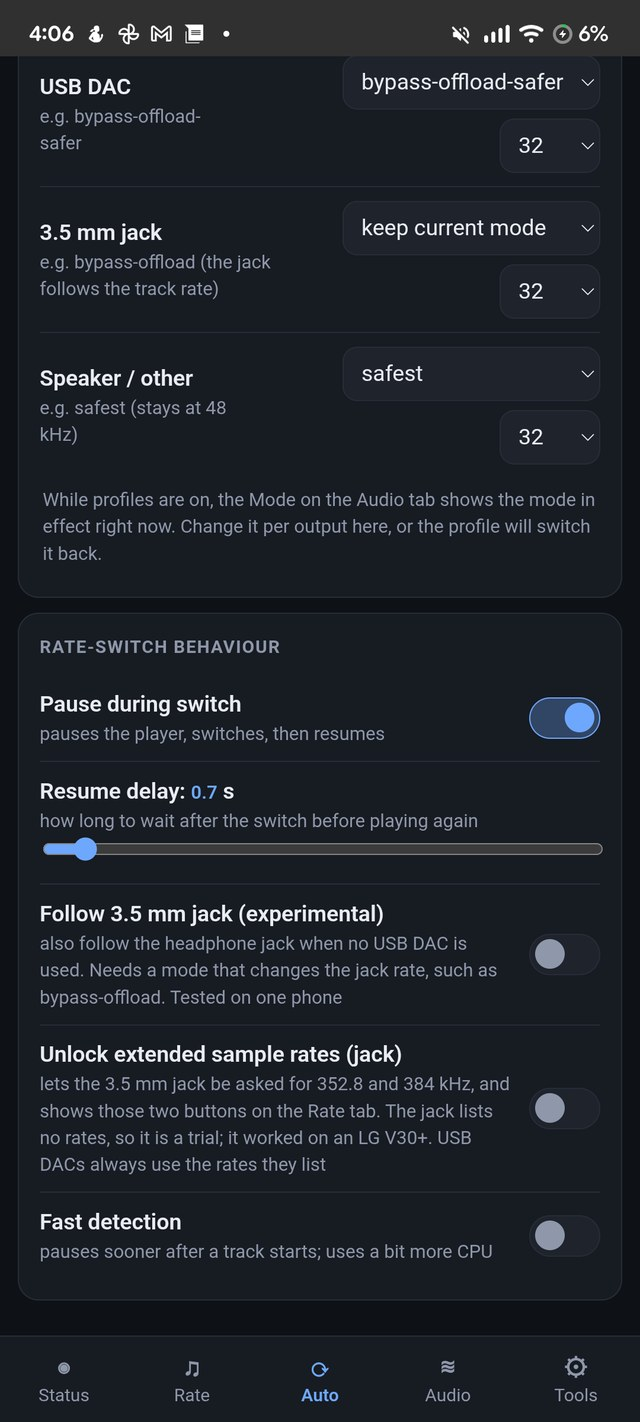
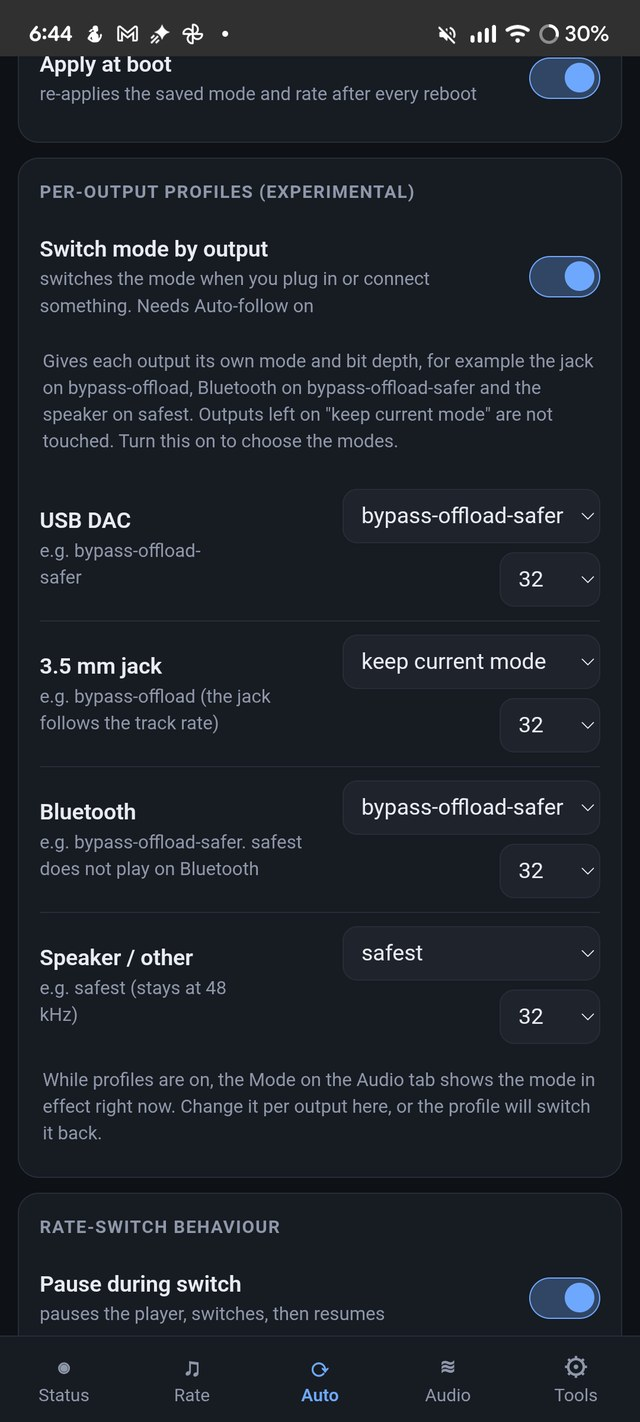
v0.7.1: Bluetooth profile, finer media volume steps, Auto tab screenshots

diff --git a/module/webroot/index.html b/module/webroot/index.html
@@ -194,11 +194,15 @@ h1{animation:sweep .8s cubic-bezier(.25,.7,.25,1) both}
     <div class="row"><div class="t"><b>Apply at boot</b><span>re-applies the saved mode and rate after every reboot</span></div><label class="sw"><input type="checkbox" data-key="boot_apply"><i></i></label></div>
   </div>
   <div class="card"><h2>Per-output profiles (experimental)</h2>
-    <div class="row"><div class="t"><b>Switch mode by output</b><span>when the output changes (USB DAC, 3.5 mm jack, speaker or other), the module switches to that output's mode. Needs Auto-follow on. Outputs left on "keep current mode" are not touched</span></div><label class="sw"><input type="checkbox" data-key="profiles"><i></i></label></div>
+    <div class="row"><div class="t"><b>Switch mode by output</b><span>switches the mode when you plug in or connect something. Needs Auto-follow on</span></div><label class="sw"><input type="checkbox" data-key="profiles"><i></i></label></div>
+    <p class="hint" style="margin:10px 2px 14px">Gives each output its own mode and bit depth, for example the jack on bypass-offload, Bluetooth on bypass-offload-safer and the speaker on safest. Outputs left on "keep current mode" are not touched. Turn this on to choose the modes.</p>
+    <div id="profRows" hidden>
     <div class="row"><div class="t"><b>USB DAC</b><span>e.g. bypass-offload-safer</span></div><div class="pair"><select data-prof="usb" aria-label="USB DAC mode"><option value="">keep current mode</option><option value="bypass-offload-safer">bypass-offload-safer</option><option value="bypass-offload">bypass-offload</option><option value="usb-only">usb-only</option><option value="offload-hifi-playback">offload-hifi-playback</option><option value="offload">offload</option><option value="offload-safer">offload-safer</option><option value="offload-direct">offload-direct</option><option value="legacy">legacy</option><option value="safe">safe</option><option value="safest">safest</option><option value="safest-auto">safest-auto</option></select><select data-profbits="usb" aria-label="USB DAC bit depth"><option value="32">32</option><option value="24">24</option><option value="16">16</option><option value="float">float</option></select></div></div>
     <div class="row"><div class="t"><b>3.5 mm jack</b><span>e.g. bypass-offload (the jack follows the track rate)</span></div><div class="pair"><select data-prof="jack" aria-label="3.5 mm jack mode"><option value="">keep current mode</option><option value="bypass-offload-safer">bypass-offload-safer</option><option value="bypass-offload">bypass-offload</option><option value="usb-only">usb-only</option><option value="offload-hifi-playback">offload-hifi-playback</option><option value="offload">offload</option><option value="offload-safer">offload-safer</option><option value="offload-direct">offload-direct</option><option value="legacy">legacy</option><option value="safe">safe</option><option value="safest">safest</option><option value="safest-auto">safest-auto</option></select><select data-profbits="jack" aria-label="3.5 mm jack bit depth"><option value="32">32</option><option value="24">24</option><option value="16">16</option><option value="float">float</option></select></div></div>
+    <div class="row"><div class="t"><b>Bluetooth</b><span>e.g. bypass-offload-safer. safest does not play on Bluetooth</span></div><div class="pair"><select data-prof="bt" aria-label="Bluetooth mode"><option value="">keep current mode</option><option value="bypass-offload-safer">bypass-offload-safer</option><option value="bypass-offload">bypass-offload</option><option value="usb-only">usb-only</option><option value="offload-hifi-playback">offload-hifi-playback</option><option value="offload">offload</option><option value="offload-safer">offload-safer</option><option value="offload-direct">offload-direct</option><option value="legacy">legacy</option><option value="safe">safe</option><option value="safest">safest</option><option value="safest-auto">safest-auto</option></select><select data-profbits="bt" aria-label="Bluetooth bit depth"><option value="32">32</option><option value="24">24</option><option value="16">16</option><option value="float">float</option></select></div></div>
     <div class="row"><div class="t"><b>Speaker / other</b><span>e.g. safest (stays at 48 kHz)</span></div><div class="pair"><select data-prof="other" aria-label="Speaker / other mode"><option value="">keep current mode</option><option value="bypass-offload-safer">bypass-offload-safer</option><option value="bypass-offload">bypass-offload</option><option value="usb-only">usb-only</option><option value="offload-hifi-playback">offload-hifi-playback</option><option value="offload">offload</option><option value="offload-safer">offload-safer</option><option value="offload-direct">offload-direct</option><option value="legacy">legacy</option><option value="safe">safe</option><option value="safest">safest</option><option value="safest-auto">safest-auto</option></select><select data-profbits="other" aria-label="Speaker / other bit depth"><option value="32">32</option><option value="24">24</option><option value="16">16</option><option value="float">float</option></select></div></div>
     <p class="hint">While profiles are on, the Mode on the Audio tab shows the mode in effect right now. Change it per output here, or the profile will switch it back.</p>
+    </div>
   </div>
   <div class="card"><h2>Rate-switch behaviour</h2>
     <div class="row"><div class="t"><b>Pause during switch</b><span>pauses the player, switches, then resumes</span></div><label class="sw"><input type="checkbox" data-key="pause"><i></i></label></div>
@@ -229,6 +233,11 @@ h1{animation:sweep .8s cubic-bezier(.25,.7,.25,1) both}
       </select></div>
     <div class="row"><div class="t"><b>Bit depth</b><span>32-bit is the default</span></div>
       <select id="bits"><option>16</option><option>24</option><option>32</option><option value="float">float</option></select></div>
+  </div>
+  <div class="card"><h2>Volume steps (experimental)</h2>
+    <div class="row"><div class="t"><b>Finer volume steps</b><span>Android has 15 media volume steps on most phones. Off changes nothing (default). Takes effect after a reboot. Some ROMs ignore it</span></div>
+      <select id="volsteps"><option value="off">Off (default)</option><option value="30">30 steps</option><option value="50">50 steps</option><option value="75">75 steps</option><option value="100">100 steps</option><option value="150">150 steps</option></select></div>
+    <p class="hint" id="volNote" hidden></p>
   </div>
   <div class="card"><h2>Sound</h2>
     <div class="row"><div class="t"><b>DRC (compression)</b><span>louder and punchier, but not bit-perfect. Off is the default</span></div><label class="sw"><input type="checkbox" data-key="drc"><i></i></label></div>
@@ -334,10 +343,10 @@ const $$ = (s, r) => Array.from((r || document).querySelectorAll(s));
 
 /* ---- command bridge: KernelSU/APatch WebUI API, or a simulated one for previews ---- */
 let demo = !(window.ksu && typeof window.ksu.exec === "function");
-const mock = { rate: 96000, bits: "32", mode: "bypass-offload-safer", boot_apply: 1, auto: 0, drc: 0, pause: 1, fast: 0, jack: 0, extended: 0, unlocker: 0, lockseen: 1, profiles: 0, prof_usb: "", prof_jack: "", prof_other: "", pause_delay: "1.5" };
+const mock = { rate: 96000, bits: "32", mode: "bypass-offload-safer", boot_apply: 1, auto: 0, drc: 0, pause: 1, fast: 0, volsteps: "", volsteps_live: "", jack: 0, extended: 0, unlocker: 0, lockseen: 1, profiles: 0, prof_usb: "", prof_jack: "", prof_bt: "", prof_other: "", pause_delay: "1.5" };
 function mockExec(cmd) {
-  if (/module\.prop/.test(cmd)) return "version=v0.7.0 (preview)";
-  const pm = cmd.match(/bprate profile (usb|jack|other) (\S+)(?: (\S+))?/);
+  if (/module\.prop/.test(cmd)) return "version=v0.7.1 (preview)";
+  const pm = cmd.match(/bprate profile (usb|jack|bt|other) (\S+)(?: (\S+))?/);
   if (pm) { mock["prof_" + pm[1]] = pm[2] === "clear" ? "" : pm[2] + ":" + (pm[3] || mock.bits); return "Profile '" + pm[1] + "' = " + mock["prof_" + pm[1]]; }
   const m = cmd.match(/bprate (\S+)(?: (\S+))?/);
   if (/bprate state/.test(cmd)) return Object.entries(mock).map(([k, v]) => k + "=" + v).join("\n");
@@ -351,6 +360,7 @@ function mockExec(cmd) {
       if (a === "pause" && /^[\d.]+$/.test(b)) { mock.pause_delay = b; mock.pause = 1; } else mock[key] = b === "on" ? 1 : 0;
       return a + " " + b;
     }
+    if (a === "volsteps") { mock.volsteps = b === "off" ? "" : b; return b === "off" ? "Volume steps OFF (default)." : "Volume steps set to " + b + ". Reboot to apply."; }
     if (a === "mode") { mock.mode = b; return "Mode set to --" + b; }
     if (a === "bits") { mock.bits = b; return "Bit depth set to " + b; }
     if (a === "reset") { mock.auto = 0; mock.boot_apply = 0; return "Policy overlay removed."; }
@@ -387,7 +397,13 @@ function paint() {
   $$("[data-key]").forEach(el => { el.checked = S[el.dataset.key] === "1"; });
   $("#mode").value = S.mode || "bypass-offload-safer";
   $("#bits").value = S.bits || "32";
-  ["usb", "jack", "other"].forEach(o => {
+  const vs = S.volsteps || "", live = S.volsteps_live || "";
+  if (![...$("#volsteps").options].some(o => o.value === vs)) { const o = document.createElement("option"); o.value = vs; o.textContent = vs + " steps"; $("#volsteps").appendChild(o); }
+  $("#volsteps").value = vs || "off";
+  const vn = $("#volNote"), pending = (vs || "") !== (live === "15" ? "" : live);
+  vn.hidden = !pending; vn.textContent = pending ? "Saved: " + (vs ? vs + " steps" : "off") + ". In use now: " + (live || "Android default") + ". Reboot to apply." : "";
+  $("#profRows").hidden = S.profiles !== "1";
+  ["usb", "jack", "bt", "other"].forEach(o => {
     const p = S["prof_" + o] || "", i = p.indexOf(":");
     $("[data-prof=" + o + "]").value = i > 0 ? p.slice(0, i) : "";
     $("[data-profbits=" + o + "]").value = i > 0 ? p.slice(i + 1) : (S.bits || "32");
@@ -400,7 +416,7 @@ function paint() {
     "\nAuto-follow: " + (S.auto === "1" ? "on" : "off") + " | Boot: " + (S.boot_apply === "1" ? "on" : "off") +
     "\nPause: " + (S.pause === "1" ? "on, " + S.pause_delay + " s" : "off") + " | Fast: " + (S.fast === "1" ? "on" : "off") +
     "\nDRC: " + (S.drc === "1" ? "on" : "off") +
-    "\nProfiles: " + (S.profiles === "1" ? "on" : "off") + (S.profiles === "1" ? " (usb " + (S.prof_usb || "-") + ", jack " + (S.prof_jack || "-") + ", other " + (S.prof_other || "-") + ")" : "");
+    "\nProfiles: " + (S.profiles === "1" ? "on" : "off") + (S.profiles === "1" ? " (usb " + (S.prof_usb || "-") + ", jack " + (S.prof_jack || "-") + ", bluetooth " + (S.prof_bt || "-") + ", other " + (S.prof_other || "-") + ")" : "");
 }
 async function loadState() {
   const txt = await bprate("state", true);
@@ -460,6 +476,7 @@ async function setProfile(o) {
 }
 $$("[data-prof]").forEach(el => el.addEventListener("change", () => setProfile(el.dataset.prof)));
 $$("[data-profbits]").forEach(el => el.addEventListener("change", () => { if ($("[data-prof=" + el.dataset.profbits + "]").value) setProfile(el.dataset.profbits); }));
+$("#volsteps").addEventListener("change", async e => { const out = await bprate("volsteps " + e.target.value); toast(out.split("\n")[0]); loadState(); });
 $("#mode").addEventListener("change", async e => { toast("Changing mode…"); const out = await bprate("mode " + e.target.value); toast(out.split("\n")[0]); loadState(); });
 $("#bits").addEventListener("change", async e => { toast("Changing bit depth…"); const out = await bprate("bits " + e.target.value); toast(out.split("\n")[0]); loadState(); });
 

diff --git a/README.md b/README.md
@@ -3,7 +3,7 @@
 **Your music. Your DAC. No unnecessary resampling.**
 
 ![status: beta](https://img.shields.io/badge/status-beta-orange)
-![version: 0.7.0](https://img.shields.io/badge/version-0.7.0-blue)
+![version: 0.7.1](https://img.shields.io/badge/version-0.7.1-blue)
 ![license: AGPL-3.0](https://img.shields.io/badge/license-AGPL--3.0-blue)
 
 **Download:** go to the [Releases page](../../releases), open the newest version at the top, and download the `.zip` under **Assets**. Then follow the [Quick start](#quick-start).
@@ -46,7 +46,7 @@ Rooted phones or tablets with an **external USB DAC** where the music app's outp
 <table>
 <tr><td align="center"><a href="docs/screenshots/01.jpg"><img src="docs/screenshots/01.jpg" width="200" alt="First run: Auto-follow nudge"></a><br><sub>First run: Auto-follow nudge</sub></td><td align="center"><a href="docs/screenshots/02.jpg"><img src="docs/screenshots/02.jpg" width="200" alt="No USB output"></a><br><sub>No USB output</sub></td><td align="center"><a href="docs/screenshots/03.jpg"><img src="docs/screenshots/03.jpg" width="200" alt="Apple Music, 96 kHz track"></a><br><sub>Apple Music, 96 kHz track</sub></td><td align="center"><a href="docs/screenshots/04.jpg"><img src="docs/screenshots/04.jpg" width="200" alt="Status, 96 kHz rate-matched"></a><br><sub>Status, 96 kHz rate-matched</sub></td></tr>
 <tr><td align="center"><a href="docs/screenshots/05.jpg"><img src="docs/screenshots/05.jpg" width="200" alt="Apple Music, 44.1 kHz track"></a><br><sub>Apple Music, 44.1 kHz track</sub></td><td align="center"><a href="docs/screenshots/06.jpg"><img src="docs/screenshots/06.jpg" width="200" alt="Status, 44.1 kHz rate-matched"></a><br><sub>Status, 44.1 kHz rate-matched</sub></td><td align="center"><a href="docs/screenshots/07.jpg"><img src="docs/screenshots/07.jpg" width="200" alt="Apple Music, 192 kHz track"></a><br><sub>Apple Music, 192 kHz track</sub></td><td align="center"><a href="docs/screenshots/08.jpg"><img src="docs/screenshots/08.jpg" width="200" alt="Status, 192 kHz rate-matched"></a><br><sub>Status, 192 kHz rate-matched</sub></td></tr>
-<tr><td align="center"><a href="docs/screenshots/09.jpg"><img src="docs/screenshots/09.jpg" width="200" alt="Rate tab"></a><br><sub>Rate tab</sub></td><td align="center"><a href="docs/screenshots/10.jpg"><img src="docs/screenshots/10.jpg" width="200" alt="Auto tab: automation and per-output profiles"></a><br><sub>Auto tab: profiles</sub></td><td align="center"><a href="docs/screenshots/10-2.jpg"><img src="docs/screenshots/10-2.jpg" width="200" alt="Auto tab: rate-switch behaviour, jack and extended rates"></a><br><sub>Auto tab: jack and extended rates</sub></td><td align="center"><a href="docs/screenshots/11.jpg"><img src="docs/screenshots/11.jpg" width="200" alt="Audio tab"></a><br><sub>Audio tab</sub></td></tr>
+<tr><td align="center"><a href="docs/screenshots/09.jpg"><img src="docs/screenshots/09.jpg" width="200" alt="Rate tab"></a><br><sub>Rate tab</sub></td><td align="center"><a href="docs/screenshots/10.jpg"><img src="docs/screenshots/10.jpg" width="200" alt="Auto tab, per-output profiles off"></a><br><sub>Auto tab: profiles off</sub></td><td align="center"><a href="docs/screenshots/10-2.jpg"><img src="docs/screenshots/10-2.jpg" width="200" alt="Auto tab, per-output profiles on"></a><br><sub>Auto tab: profiles on</sub></td><td align="center"><a href="docs/screenshots/11.jpg"><img src="docs/screenshots/11.jpg" width="200" alt="Audio tab"></a><br><sub>Audio tab</sub></td></tr>
 <tr><td align="center"><a href="docs/screenshots/12.jpg"><img src="docs/screenshots/12.jpg" width="200" alt="Audio: which mode should I pick"></a><br><sub>Audio: which mode should I pick</sub></td><td align="center"><a href="docs/screenshots/13.jpg"><img src="docs/screenshots/13.jpg" width="200" alt="Audio: mode list"></a><br><sub>Audio: mode list</sub></td><td align="center"><a href="docs/screenshots/14.jpg"><img src="docs/screenshots/14.jpg" width="200" alt="Audio: bit depth list"></a><br><sub>Audio: bit depth list</sub></td><td align="center"><a href="docs/screenshots/15.jpg"><img src="docs/screenshots/15.jpg" width="200" alt="Tools, Night theme"></a><br><sub>Tools, Night theme</sub></td></tr>
 <tr><td align="center"><a href="docs/screenshots/16.jpg"><img src="docs/screenshots/16.jpg" width="200" alt="Tools: diagnostics and report"></a><br><sub>Tools: diagnostics and report</sub></td><td align="center"><a href="docs/screenshots/17.jpg"><img src="docs/screenshots/17.jpg" width="200" alt="Day theme"></a><br><sub>Day theme</sub></td><td align="center"><a href="docs/screenshots/18.jpg"><img src="docs/screenshots/18.jpg" width="200" alt="Retro paper theme"></a><br><sub>Retro paper theme</sub></td><td align="center"><a href="docs/screenshots/19.jpg"><img src="docs/screenshots/19.jpg" width="200" alt="Retro night theme"></a><br><sub>Retro night theme</sub></td></tr>
 <tr><td align="center"><a href="docs/screenshots/20.jpg"><img src="docs/screenshots/20.jpg" width="200" alt="Wavelet equalizer on"></a><br><sub>Wavelet equalizer on</sub></td><td align="center"><a href="docs/screenshots/21.jpg"><img src="docs/screenshots/21.jpg" width="200" alt="Status with sound effects on"></a><br><sub>Status with sound effects on</sub></td><td align="center"><a href="docs/screenshots/22.jpg"><img src="docs/screenshots/22.jpg" width="200" alt="Wavelet idle, nothing applied"></a><br><sub>Wavelet idle, nothing applied</sub></td><td align="center"><a href="docs/screenshots/23.jpg"><img src="docs/screenshots/23.jpg" width="200" alt="Status, 192 kHz clean"></a><br><sub>Status, 192 kHz clean</sub></td></tr>
@@ -167,9 +167,10 @@ Off by default. With **Per-output profiles** on (Auto tab, or `bprate profiles o
 |---|---|
 | USB DAC | a USB audio card is present |
 | 3.5 mm jack | a wired headset or headphone is listed as an available output device |
-| Speaker / other | neither of the above |
+| Bluetooth headphones | an A2DP, LE Audio or hearing-aid device is listed as an available output device. Wins over the jack. **`safest` does not play on Bluetooth** (Moto Edge 30 Fusion, LG V30+), so give Bluetooth its own mode, e.g. `bypass-offload-safer` |
+| Speaker / other | none of the above |
 
-Nothing is preset. An output left on "keep current mode" is not touched. Set them in the WebUI or with `bprate profile usb|jack|other <mode> [bits]`, for example `bprate profile jack bypass-offload` and `bprate profile other safest`. `bprate profile` lists them, `bprate profile jack clear` removes one.
+Nothing is preset. An output left on "keep current mode" is not touched. Set them in the WebUI or with `bprate profile usb|jack|bt|other <mode> [bits]`, for example `bprate profile jack bypass-offload`, `bprate profile bt bypass-offload-safer` and `bprate profile other safest`. `bprate profile` lists them, `bprate profile jack clear` removes one.
 
 - The output has to stay the same for two checks (about 3 seconds) before anything switches, and an unreadable dump counts as "no change", so an audio server restart does not look like an unplug.
 - A switch restarts the audio server, the same as a rate switch. If music is playing it is paused first and resumed afterwards (the same pause setting as rate switches).
@@ -177,6 +178,15 @@ Nothing is preset. An output left on "keep current mode" is not touched. Set the
 - While profiles are on, the mode shown on the Audio tab is the one in effect right now. Change it per output, or the profile switches it back.
 - A jack profile also makes the follower follow the jack. The jack still needs a mode that changes its rate (see above).
 - Tested on an LG V30+ (LineageOS 22.2): jack profile `bypass-offload`, speaker/other profile `safest`. Plugging in headphones switched to the jack profile in about 5 seconds and unplugging switched back, and the speaker played normally afterwards. The USB DAC profile has not been tried on a phone yet.
+
+## Volume steps (experimental)
+
+Android has 15 media volume steps on most phones, which is coarse on headphones. **Finer volume steps** (Audio tab, or `bprate volsteps <16-150>`) raises the number, up to 150, by setting `ro.config.media_vol_steps` at boot. It is meant to make life easier: Bluetooth headphones, or a USB DAC without a volume control of its own, can only be turned down with the phone's volume, so finer steps help. **Off is the default and changes nothing.**
+
+- It takes effect after a reboot. `bprate volsteps off` and a reboot go back to Android's own number.
+- It is a standard Android property, but some ROMs ignore it. It worked on the Moto Edge 30 Fusion (LineageOS 24) with 75 and 150 steps. Other phones are untested; Samsung One UI has its own volume step setting in Good Lock.
+- `bpstatus` and the Status tab show the media volume as a number, for example `Media volume: 45 / 100`. The module cannot add a number to Android's own volume panel; that is part of the system UI.
+- It does not touch the sample rate, the mode or anything else the module does.
 
 ## Known limitations
 

diff --git a/docs/COMPATIBILITY.md b/docs/COMPATIBILITY.md
@@ -53,11 +53,11 @@ The jack can follow a rate in modes that change the internal outputs. Tested by 
 - The 32-bit mixer reaches the hardware as 24-bit. Whether the DAC chip processes the signal further is not known.
 - On Qualcomm phones the speaker and the jack usually share one playback stream, so the stream alone does not prove which one is playing; the active output thread does.
 - Automatic following: the follow log showed switches to 44.1, 48 and 192 kHz as tracks changed. Headphones without a microphone are listed as `WIRED_HEADPHONE`, a headset with one as `WIRED_HEADSET`; both are detected.
-- Above 192 kHz: VLC played a 384 kHz file at 192 kHz. With Poweramp set to 352.8 kHz the follower picked 176.4 kHz (it halves rates above 192 kHz once). Not checked whether 176.4 kHz reached the hardware. Rates above 192 kHz are not a goal of the jack follower.
+- Above 192 kHz: with "Unlock extended sample rates (jack)" off, the follower halves rates above 192 kHz once (Poweramp at 352.8 kHz gave 176.4 kHz). With it on, 352.8 and 384 kHz were followed on the V30+ (Poweramp goes up to 384 kHz).
 - Not tested yet: other phones and other modes.
 
 ## Per-output profiles (experimental)
-Output detection (`out_kind`) reads `dumpsys media.audio_policy`: a wired headset or headphone in the "Available output devices" list means jack, a USB audio card in `/proc/asound` means USB DAC, otherwise other. Tests use the V30+'s plugged dump and the same dump without the headset entry. On the LG V30+ (jack = `bypass-offload`, other = `safest`) plugging in headphones switched to the jack profile and unplugging switched back, each in about 5 seconds including a 2.5 s audio server restart, and the speaker worked afterwards. The USB DAC profile is not tried on a phone yet.
+Output detection (`out_kind`) reads `dumpsys media.audio_policy`: a wired headset or headphone in the "Available output devices" list means jack, a USB audio card in `/proc/asound` means USB DAC, a Bluetooth media device (`BLUETOOTH_A2DP`, `BLE_*` or `HEARING_AID`) means Bluetooth (its own profile, and it wins over the jack), otherwise other. A phone-call-only `BLUETOOTH_SCO` entry alone does not count. On the Moto Edge 30 Fusion the AirPods showed up as `AUDIO_DEVICE_OUT_BLUETOOTH_A2DP` (plus `BLUETOOTH_SCO`). Tests use the V30+'s plugged dump and the same dump without the headset entry. On the LG V30+ (jack = `bypass-offload`, other = `safest`) plugging in headphones switched to the jack profile and unplugging switched back, each in about 5 seconds including a 2.5 s audio server restart, and the speaker worked afterwards. The USB DAC profile is not tried on a phone yet.
 
 ## Legend
 - **Confirmed rate-matched:** `bpstatus` showed `rate-matched`, `gain 0 dB`, no enabled effects while playing.

diff --git a/CHANGELOG.md b/CHANGELOG.md
@@ -2,6 +2,19 @@
 
 Versions are module versions (`module/module.prop`). Nothing here is a validated release.
 
+## 0.7.1
+
+### Fixed
+- **Bluetooth headphones and per-output profiles**: a Bluetooth headset used to count as "Speaker / other", so with the speaker profile on `safest` (which does not play on Bluetooth) connecting headphones left the sound on the speaker or jack. Bluetooth (A2DP, LE Audio, hearing aid) is now detected on its own and gets its own profile (`bprate profile bt <mode>`, Bluetooth row on the Auto tab; left on "keep current mode" it is not touched). It wins over the jack, and the follower does nothing on it. The Status tab warns when `safest` is in effect on Bluetooth. Seen on a Moto Edge 30 Fusion, an LG V30+ and a Samsung (all list the AirPods as `BLUETOOTH_A2DP`); `safest` stayed silent on the Moto and the LG, `bypass-offload` and `bypass-offload-safer` played.
+
+### New
+- Off by default: **finer media volume steps** (`bprate volsteps off|16..150`, card on the Audio tab). Sets `ro.config.media_vol_steps` at boot (up to 150 steps instead of Android's 15); handy for Bluetooth headphones or a USB DAC without a volume control of its own, where the phone's volume is the only control. Needs a reboot, and `off` changes nothing. The setting is kept in the state dir, so it survives module updates. `bpstatus` and the Status tab show the media volume as `Media volume: N / M`. Worked with 75 and 150 steps on a Moto Edge 30 Fusion (LineageOS 24).
+
+### Changed
+- Auto tab: the per-output rows only show once "Switch mode by output" is on; the card explains what it does while it is off.
+- README: the Auto-follow description now covers the jack, the profiles and the extended rates; new Auto tab screenshots.
+- Docs: Poweramp followed 352.8 and 384 kHz on the jack with the extended rates switch on.
+
 ## 0.7.0
 
 The module now reaches beyond USB: it can follow the 3.5 mm jack and switch modes per output. Both are experimental and off by default. They were tested on an LG V30+ (LineageOS 22.2, Magisk).

diff --git a/module/README.md b/module/README.md
@@ -1,4 +1,4 @@
-# Auto Samplerate Changer for Android: module usage (v0.7.0, beta)
+# Auto Samplerate Changer for Android: module usage (v0.7.1, beta)
 
 Flash `Auto-Samplerate-Changer-<version>.zip` in Magisk, APatch or KernelSU, **reboot**, then use a root shell (Termux: `su`).
 
@@ -15,8 +15,9 @@ Tested with APatch (Moto Edge 30 Fusion, Android 17) and KernelSU Next (Galaxy T
 | `bprate pause on\|off\|<seconds>` | pause the player just before a rate switch and resume it after the audio server is back (default on, 1.5 s) |
 | `bprate fast on\|off` | detect a new track's rate on the first poll and poll more often, so the pause comes sooner (more CPU use) |
 | `bprate jack on\|off` | experimental: also follow the 3.5 mm jack when no USB DAC is used (needs a mode such as `bypass-offload`) |
+| `bprate volsteps off\|<16-150>` | finer media volume steps, applied at boot (off by default; some ROMs ignore it) |
 | `bprate extended on\|off` | let the jack be asked for 352.8/384 kHz (off by default; USB DACs use their own rate list) |
-| `bprate profiles on\|off` / `bprate profile usb\|jack\|other <mode> [bits]` | experimental: a mode and bit depth per output (USB DAC, jack, speaker/other); needs `bprate auto on` |
+| `bprate profiles on\|off` / `bprate profile usb\|jack\|bt\|other <mode> [bits]` | experimental: a mode and bit depth per output (USB DAC, jack, Bluetooth, speaker/other); needs `bprate auto on` |
 | `bprate deepbuffer keep\|trim` | keep or remove `deep_buffer` on USB routes |
 | `bpverify` | why the overlay is or is not active (share this when reporting) |
 | `bpreport` | **sanitized tester report** (run while playing) → `/sdcard/Download/bitperfect-report.txt` |

diff --git a/docs/TERMINAL.md b/docs/TERMINAL.md
@@ -23,9 +23,10 @@ You do not need a terminal to use Auto Samplerate Changer: everything below is a
 | `bprate pause on\|off\|<seconds>` | Pause the player just before a rate switch and resume afterwards (default on, 1.5 s). |
 | `bprate fast on\|off` | Detect a new track's rate sooner (a bit more CPU use). |
 | `bprate jack on\|off` | Experimental: also follow the 3.5 mm headphone jack when no USB DAC is used. Needs a mode that changes the jack rate, such as `bypass-offload`. |
+| `bprate volsteps off\|<16-150>` | Finer media volume steps (Android has 15 on most phones). Off is the default and changes nothing. Saved now, applied at the next boot. |
 | `bprate extended on\|off` | Let the 3.5 mm jack be asked for 352.8 and 384 kHz (worked on an LG V30+; a trial on other phones). Off by default: the jack stays at 192 kHz or lower. USB DACs are not affected. |
 | `bprate profiles on\|off` | Experimental: switch mode and bit depth by output (USB DAC, 3.5 mm jack, speaker/other). Needs Auto-follow on. |
-| `bprate profile [usb\|jack\|other [<mode> [<bits>]\|clear]]` | Show, set or clear the profile of an output, e.g. `bprate profile jack bypass-offload 32`. An output without a profile keeps the current mode. |
+| `bprate profile [usb\|jack\|bt\|other [<mode> [<bits>]\|clear]]` | Show, set or clear the profile of an output, e.g. `bprate profile jack bypass-offload 32`. An output without a profile keeps the current mode. |
 | `bprate drc on\|off` | Compression: louder, but not bit-perfect. Off by default. |
 | `bprate deepbuffer keep\|trim` | Keep or remove `deep_buffer` on USB routes. |
 

diff --git a/docs/ARCHITECTURE.md b/docs/ARCHITECTURE.md
@@ -51,7 +51,7 @@ Pristine source selection (added in v0.8):
 |---|---|---|
 | `common.sh` | sh + awk | all parsing/patching logic; sourced by everything else |
 | `customize.sh` | sh | installer |
-| `post-fs-data.sh` | sh | boot guard counter; optional `resetprop` for `bpoffload` |
+| `post-fs-data.sh` | sh | boot guard counter; optional `resetprop` for `bpoffload` and for `ro.config.media_vol_steps` (`bprate volsteps`, value kept in `$STATE/volsteps`) |
 | `service.sh` | sh | clears boot counter after audio is up, writes `boot.log`, starts `bpfollow` |
 | `bpfollow` | sh | daemon: probe, debounce (2 readings), switch, wait for audioserver, log timings |
 | `bprate`, `bpstatus`, `bpcheck`, `bpverify`, `bpdiag`, `bpdump`, `bpoffload` | sh | user tools |
